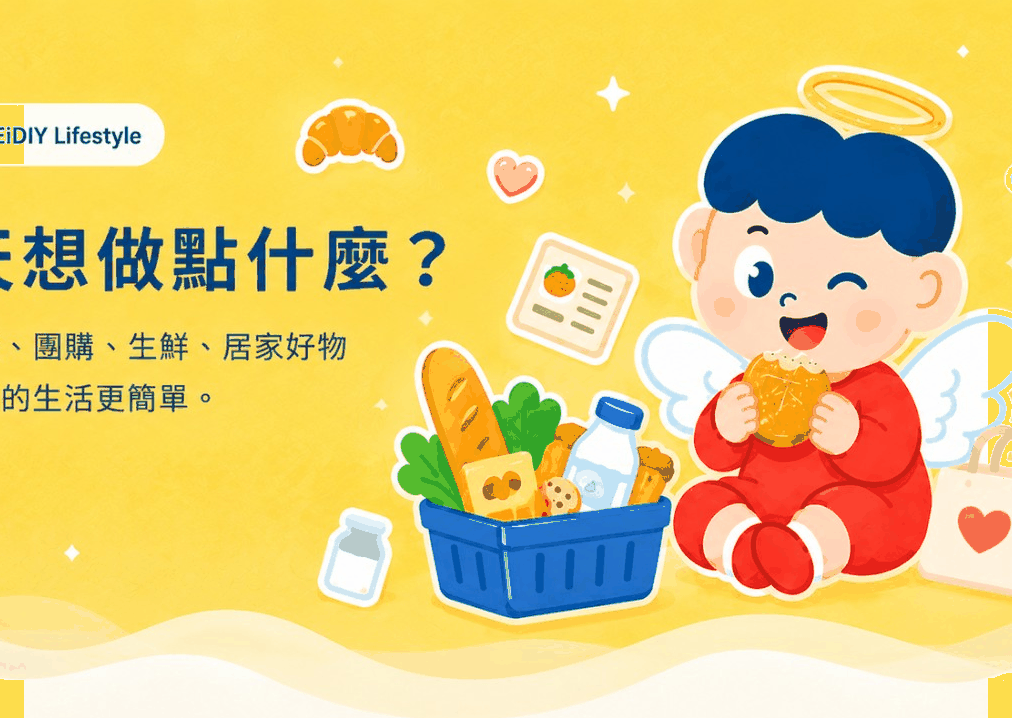
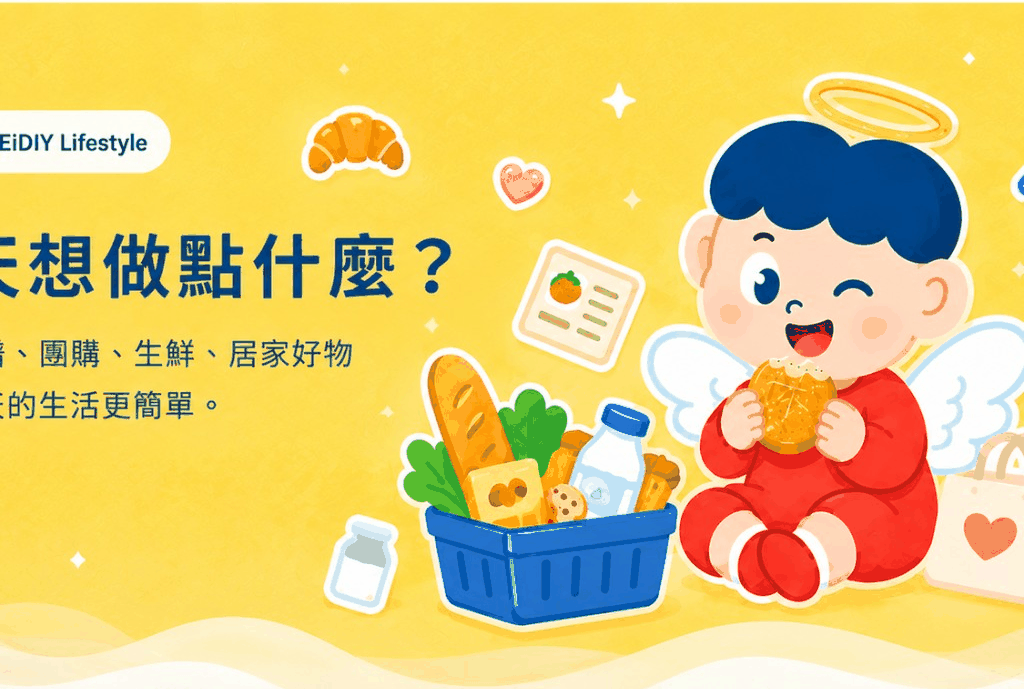
fix(home): correct mobile hero asset and stop side cropping
Replace the mistaken desktop crop with the 5:4 mobile banner, match container aspect, and use object-contain on mobile so headline and IP are not clipped on narrow screens.

diff --git a/src/components/home/ResponsiveHeroImage.tsx b/src/components/home/ResponsiveHeroImage.tsx
@@ -21,15 +21,15 @@ function toObjectPosition(pos?: HomeHeroObjectPosition | null): string {
 }
 
 /**
- * One <picture> switch — browser fetches only the matching source.
- * Mobile ≤767px uses mobile art; desktop uses desktop art.
+ * Mobile and desktop art use separate frames so aspect ratio matches the asset
+ * (cover would crop left/right on mobile when ratios diverge).
  */
 export function ResponsiveHeroImage({
   desktopUrl,
   mobileUrl,
   alt,
   desktopObjectPosition = "center",
-  mobileObjectPosition = "center",
+  mobileObjectPosition = "center top",
 }: {
   desktopUrl: string;
   mobileUrl: string;
@@ -41,54 +41,37 @@ export function ResponsiveHeroImage({
   const mobilePos = toObjectPosition(mobileObjectPosition);
 
   return (
-    <div
-      className="relative z-0 w-full overflow-hidden bg-[#FFD454] [--hero-pos-mobile:center_center] [--hero-pos-desktop:center_center]"
-      style={
-        {
-          ["--hero-pos-mobile" as string]: mobilePos,
-          ["--hero-pos-desktop" as string]: desktopPos,
-        } as React.CSSProperties
-      }
-    >
-      <style>{`
-        .home-hero-frame {
-          position: relative;
-          width: 100%;
-          aspect-ratio: ${HOME_HERO_MOBILE_ASPECT};
-        }
-        @media (min-width: 768px) {
-          .home-hero-frame {
-            aspect-ratio: auto;
-            height: clamp(420px, 48vw, 720px);
-          }
-        }
-        .home-hero-img {
-          position: absolute;
-          inset: 0;
-          width: 100%;
-          height: 100%;
-          object-fit: cover;
-          object-position: var(--hero-pos-mobile);
-          user-select: none;
-        }
-        @media (min-width: 768px) {
-          .home-hero-img {
-            object-position: var(--hero-pos-desktop);
-          }
-        }
-      `}</style>
-      <div className="home-hero-frame">
-        <picture>
-          <source media="(max-width: 767px)" srcSet={mobileUrl} />
-          {/* eslint-disable-next-line @next/next/no-img-element */}
-          <img
-            src={desktopUrl}
-            alt={alt}
-            className="home-hero-img"
-            decoding="async"
-            fetchPriority="high"
-          />
-        </picture>
+    <div className="relative z-0 w-full max-w-full overflow-hidden bg-[#FFD454]">
+      {/* Mobile — intrinsic 5:4-family art; contain avoids side crop */}
+      <div
+        className="relative w-full md:hidden"
+        style={{ aspectRatio: HOME_HERO_MOBILE_ASPECT }}
+      >
+        {/* eslint-disable-next-line @next/next/no-img-element */}
+        <img
+          src={mobileUrl}
+          alt={alt}
+          className="absolute inset-0 h-full w-full select-none object-contain [object-position:var(--hero-pos-mobile)]"
+          style={{ ["--hero-pos-mobile" as string]: mobilePos } as React.CSSProperties}
+          decoding="async"
+          fetchPriority="high"
+        />
+      </div>
+
+      {/* Desktop */}
+      <div
+        className="relative hidden w-full md:block"
+        style={{ height: "clamp(420px, 48vw, 720px)" }}
+      >
+        {/* eslint-disable-next-line @next/next/no-img-element */}
+        <img
+          src={desktopUrl}
+          alt={alt}
+          className="absolute inset-0 h-full w-full select-none object-cover [object-position:var(--hero-pos-desktop)]"
+          style={{ ["--hero-pos-desktop" as string]: desktopPos } as React.CSSProperties}
+          decoding="async"
+          fetchPriority="high"
+        />
       </div>
     </div>
   );

diff --git a/src/components/home/FloatingSearchBar.tsx b/src/components/home/FloatingSearchBar.tsx
@@ -28,11 +28,9 @@ export function FloatingSearchBar({
     <form
       onSubmit={submit}
       role="search"
-      className="relative z-10 mx-auto flex h-[54px] w-[calc(100%-32px)] max-w-[1280px] -mt-[26px] items-center gap-3 border border-[#E9EDF2] bg-white md:h-16 md:w-[calc(100%-48px)] md:-mt-[38px]"
+      className="relative z-10 mx-auto flex h-[54px] w-full max-w-[1280px] -mt-[26px] min-w-0 items-center gap-2 border border-[#E9EDF2] bg-white px-4 pr-2.5 md:h-16 md:-mt-[38px] md:gap-3 md:px-[18px] md:pr-2.5"
       style={{
         borderRadius: "999px",
-        paddingLeft: "18px",
-        paddingRight: "10px",
         boxShadow:
           "0 12px 30px rgba(21, 62, 115, 0.10), 0 3px 8px rgba(21, 62, 115, 0.04)",
       }}
@@ -45,8 +43,8 @@ export function FloatingSearchBar({
         id="home-hero-search-input"
         value={q}
         onChange={(e) => setQ(e.target.value)}
-        placeholder={placeholder || "今天想做什麼？搜尋食譜、商品、團購、生鮮…"}
-        className="min-w-0 flex-1 bg-transparent text-[15px] text-[#153E73] outline-none placeholder:text-[#687386]"
+        placeholder={placeholder || "今天想做什麼？搜尋食譜、商品…"}
+        className="min-w-0 flex-1 bg-transparent text-[14px] text-[#153E73] outline-none placeholder:text-[#687386] sm:text-[15px]"
         autoComplete="off"
         style={{ height: "100%" }}
       />

diff --git a/src/components/home/HomeHeroSection.tsx b/src/components/home/HomeHeroSection.tsx
@@ -139,7 +139,10 @@ export function HomeHeroSection() {
   return (
     <section className="relative w-full overflow-x-hidden bg-[#FFFEFA]" aria-label="首頁主視覺">
       {/* Yellow canvas + image + overlays */}
-      <div className="relative w-full overflow-hidden bg-[#FFD454]">
+      <div
+        className="relative w-full overflow-hidden bg-[#FFD454]"
+        style={{ paddingTop: "env(safe-area-inset-top, 0px)" }}
+      >
         <ResponsiveHeroImage
           desktopUrl={desktopUrl}
           mobileUrl={mobileUrl}
@@ -156,14 +159,14 @@ export function HomeHeroSection() {
         <HeroBottomTransition />
       </div>
 
-      {/* Search floats above wave; popular tags stay in this hero zone */}
-      <div className="relative z-10 bg-[#FFFEFA] pb-2 pt-0">
+      {/* Search floats above wave; reserve space so IP isn't covered */}
+      <div className="relative z-10 bg-[#FFFEFA] px-4 pb-2 pt-0 md:px-6">
         <FloatingSearchBar
           placeholder={data.searchPlaceholder}
           scope={(data.searchScope as SearchScope) || "global"}
         />
         {data.showPopularTags !== false && data.tags?.length ? (
-          <div className="mx-auto mt-4 w-[calc(100%-32px)] max-w-[1280px] md:w-[calc(100%-48px)]">
+          <div className="mx-auto mt-4 w-full max-w-[1280px]">
             <BrandHeroTags
               tags={data.tags.map((t) => ({
                 id: t.id,

diff --git a/src/types/home-hero.ts b/src/types/home-hero.ts
@@ -32,13 +32,13 @@ export type HomeHeroData = {
   enabled?: boolean;
 };
 
-export const HOME_HERO_DESKTOP_IMAGE = "/brand/hero-home-desktop.png?v=20260730c";
-export const HOME_HERO_MOBILE_IMAGE = "/brand/hero-home-mobile.png?v=20260730c";
+export const HOME_HERO_DESKTOP_IMAGE = "/brand/hero-home-desktop.png?v=20260730e";
+export const HOME_HERO_MOBILE_IMAGE = "/brand/hero-home-mobile.png?v=20260730e";
 
 /** Cropped desktop asset ≈ 998×502 */
 export const HOME_HERO_DESKTOP_ASPECT = "998 / 502";
-/** Cropped mobile asset ≈ 1012×718 (~5:4 family) */
-export const HOME_HERO_MOBILE_ASPECT = "1012 / 718";
+/** Cropped mobile asset ≈ 1024×689 (5:4 family, wave trimmed) */
+export const HOME_HERO_MOBILE_ASPECT = "1024 / 689";
 
 export const HOME_HERO_DEFAULTS: HomeHeroData = {
   title: "今天想做點什麼？",
@@ -47,7 +47,7 @@ export const HOME_HERO_DEFAULTS: HomeHeroData = {
   mobileImageUrl: HOME_HERO_MOBILE_IMAGE,
   imageAlt: "CHIMEiDIY Lifestyle 首頁主視覺",
   desktopObjectPosition: "center",
-  mobileObjectPosition: "center",
+  mobileObjectPosition: "center top",
   searchPlaceholder: "今天想做什麼？搜尋食譜、商品、團購、生鮮…",
   searchScope: "global",
   showPopularTags: true,

diff --git a/src/components/home/HeroBottomTransition.tsx b/src/components/home/HeroBottomTransition.tsx
@@ -2,10 +2,9 @@
 export function HeroBottomTransition() {
   return (
     <div
-      className="pointer-events-none absolute inset-x-0 bottom-0 z-[2] w-full overflow-hidden"
+      className="pointer-events-none absolute inset-x-0 bottom-0 z-[2] w-full max-w-full overflow-hidden"
       aria-hidden
     >
-      {/* Soft fade into warm white — no heavy blur */}
       <div
         className="absolute inset-x-0 bottom-0 h-[48px] md:h-[80px]"
         style={{
@@ -17,8 +16,8 @@ export function HeroBottomTransition() {
       <svg
         viewBox="0 0 1440 100"
         preserveAspectRatio="none"
-        className="relative z-[2] block h-[52px] w-full md:h-[80px]"
-        style={{ filter: "blur(1.5px)" }}
+        className="relative z-[2] block h-[52px] w-full max-w-full md:h-[80px]"
+        style={{ filter: "blur(1px)" }}
       >
         <path
           fill="#FFFEFA"
